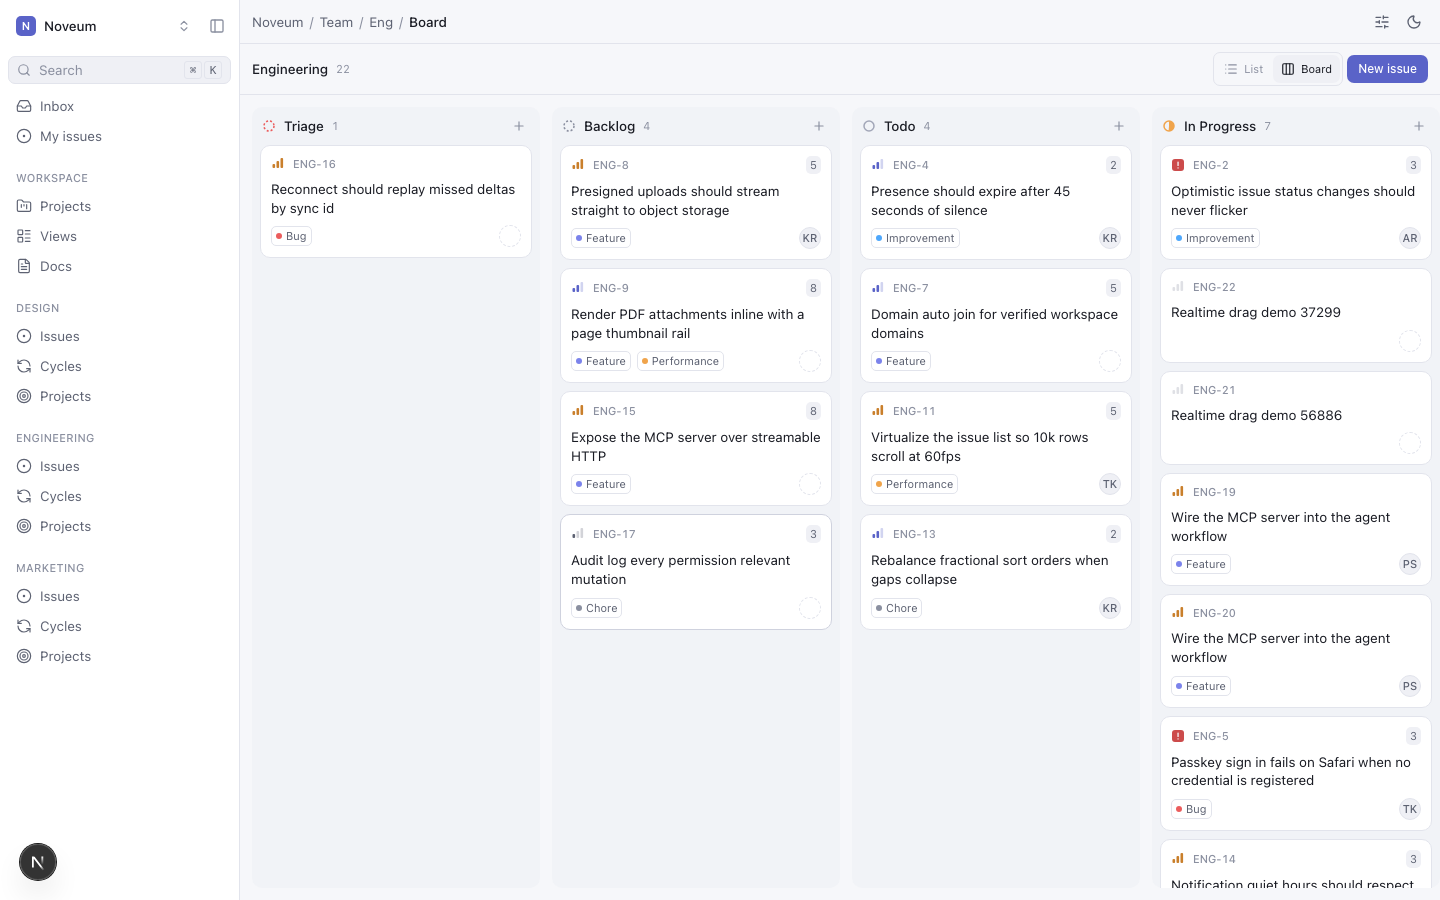
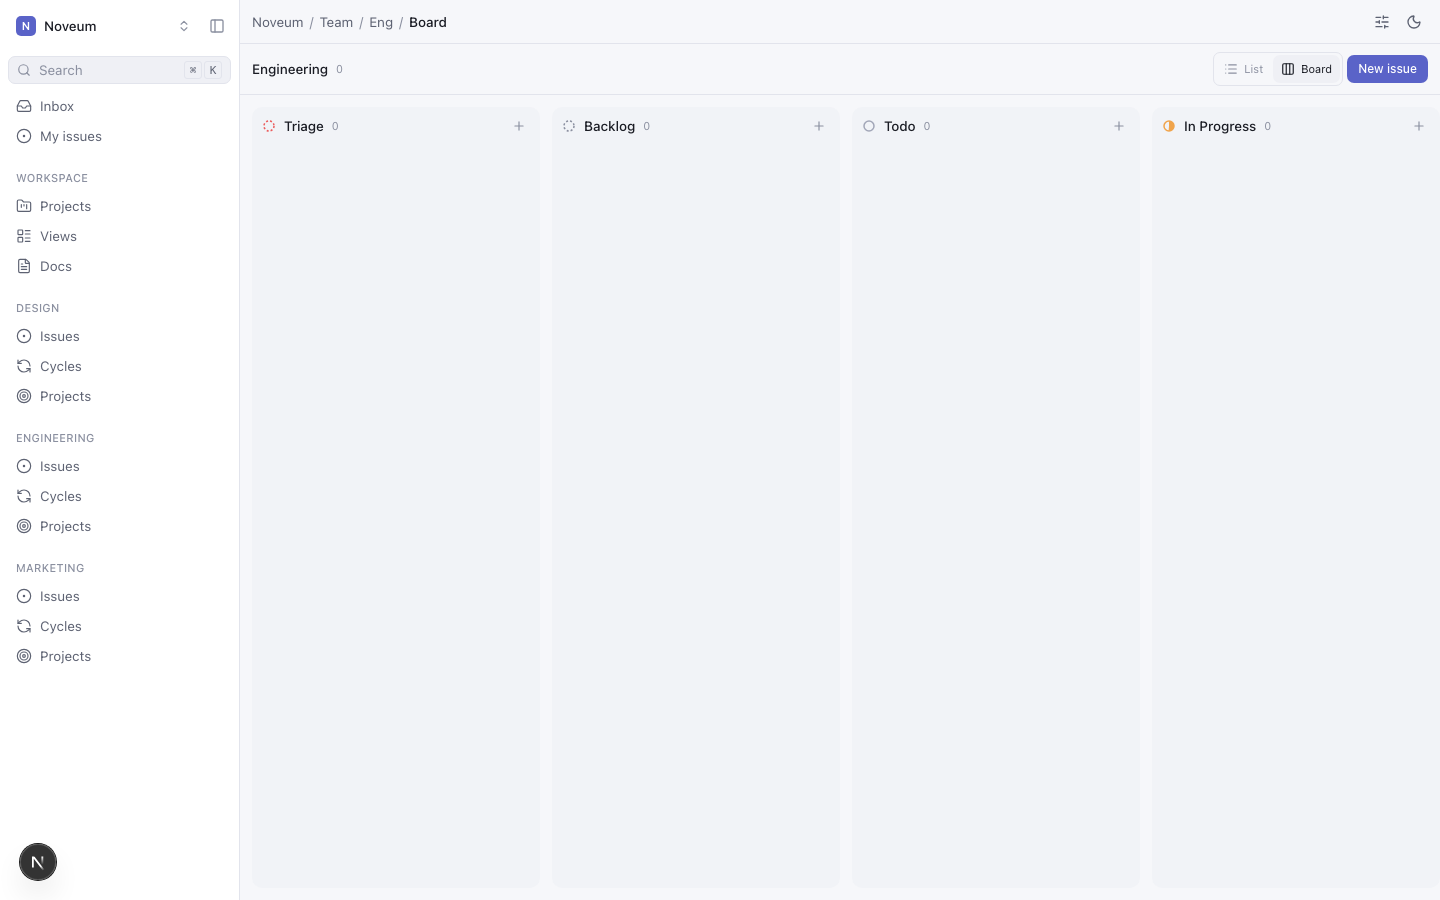
fix(web): align the api helpers with the shared route context
Uses the shared apiContext helper for the file routes after rebasing on main.

diff --git a/apps/web/src/app/api/files/[...key]/route.ts b/apps/web/src/app/api/files/[...key]/route.ts
@@ -2,7 +2,7 @@ import { readFile } from 'node:fs/promises';
 import { db, eq, schema } from '@orbit/db';
 import { createStorageDriver, LocalStorageDriver } from '@orbit/services/storage';
 import { notFound, validationFailed } from '@orbit/shared/errors';
-import { errorResponse, requirePrincipal } from '@/lib/api/handler.ts';
+import { apiContext, errorResponse } from '@/lib/api/handler.ts';
 
 interface RouteContext {
   readonly params: Promise<{ key: string[] }>;
@@ -12,7 +12,7 @@ const MAX_INLINE_BYTES = 25 * 1024 * 1024;
 
 export async function GET(_request: Request, context: RouteContext): Promise<Response> {
   try {
-    const principal = await requirePrincipal();
+    const { principal } = await apiContext();
     const { key } = await context.params;
     const storageKey = key.join('/');
 
@@ -51,7 +51,7 @@ export async function GET(_request: Request, context: RouteContext): Promise<Res
 
 export async function PUT(request: Request, context: RouteContext): Promise<Response> {
   try {
-    const principal = await requirePrincipal();
+    const { principal } = await apiContext();
     const { key } = await context.params;
     const storageKey = key.join('/');
 